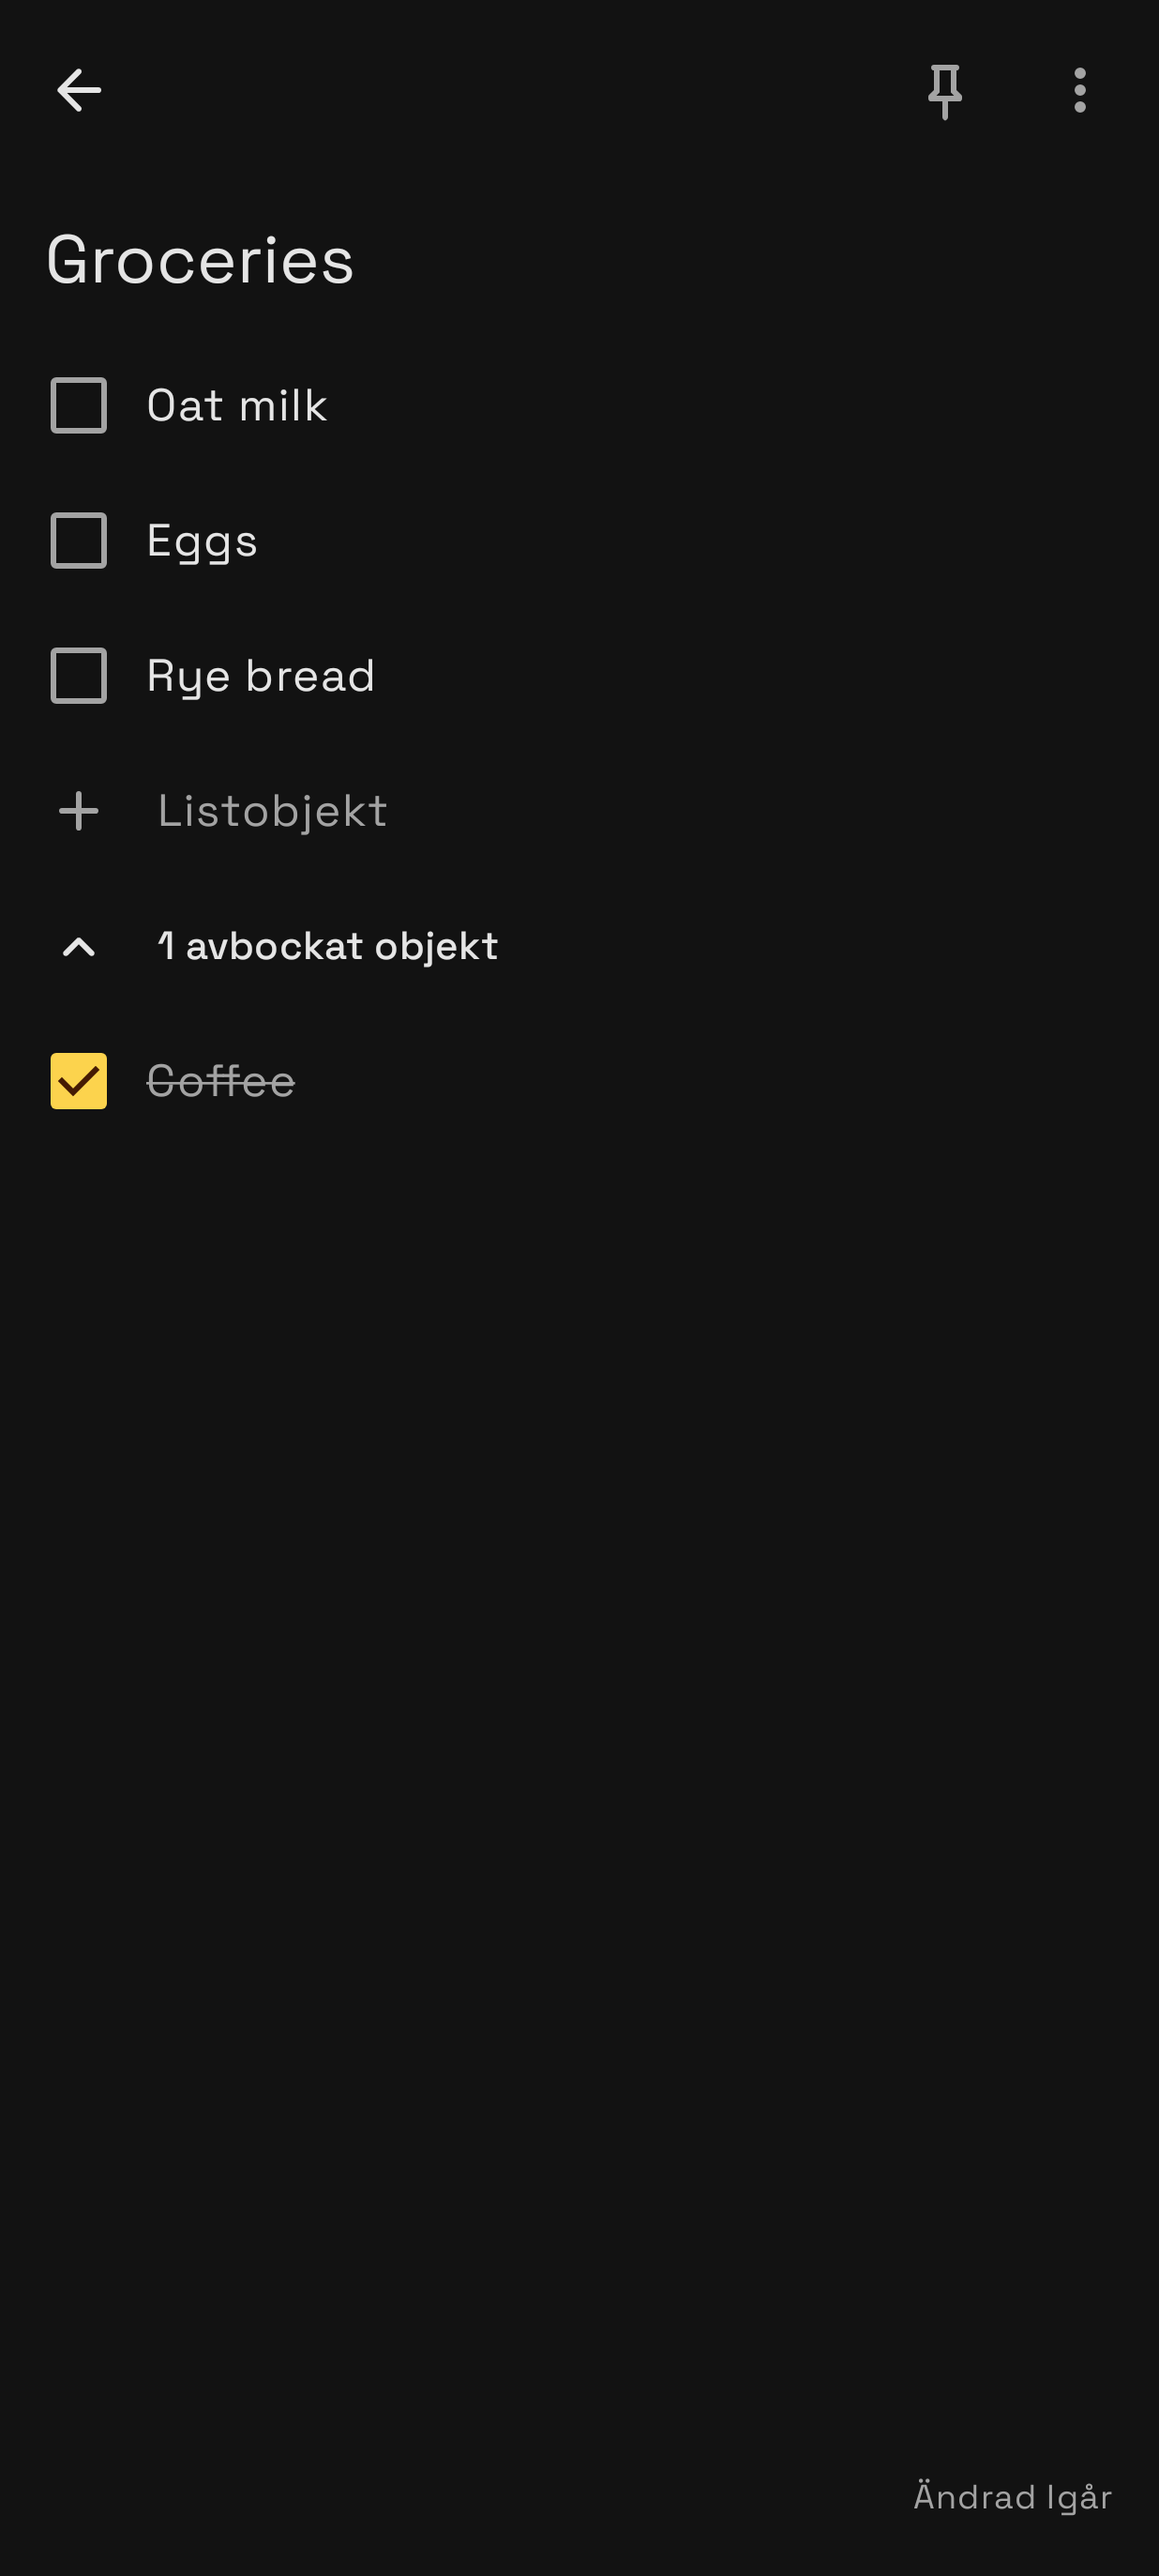
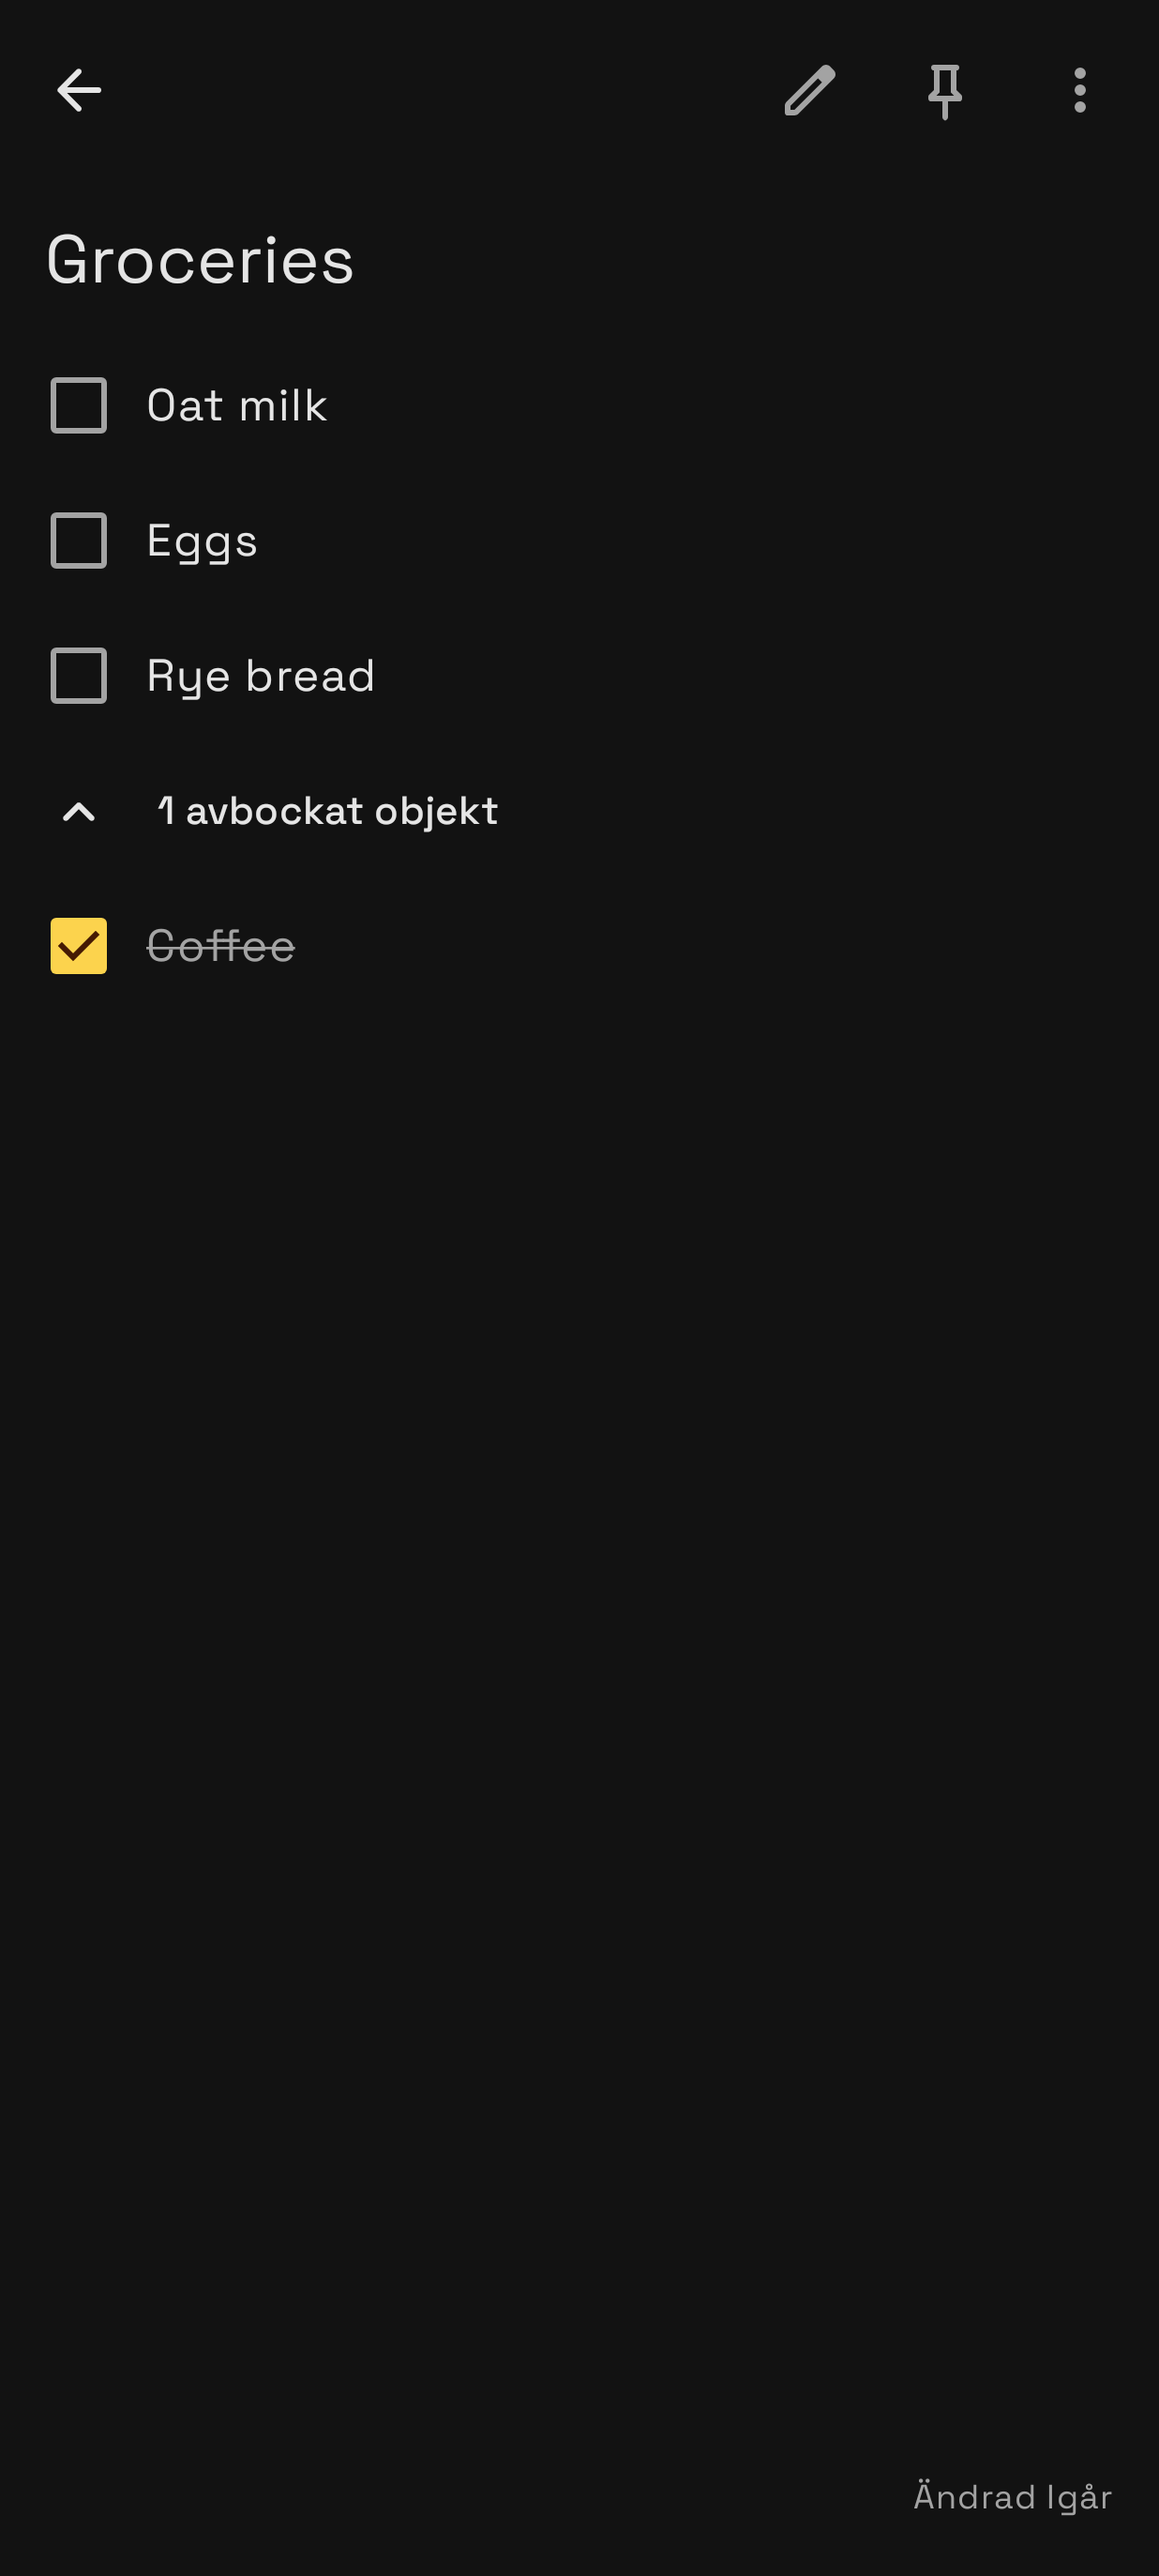
feat(notes): read notes before editing them, with one + for new ones
Notes open showing their formatting with the marks hidden, checklists still tickable, and Edit opens the editor. The list drops its bottom bar and checklist button; a note becomes a checklist from the formatting bar or the menu.

diff --git a/apps/notes/src/main/kotlin/dev/freeranger/range/notes/ui/note/NoteScreen.kt b/apps/notes/src/main/kotlin/dev/freeranger/range/notes/ui/note/NoteScreen.kt
@@ -1,6 +1,7 @@
 package dev.freeranger.range.notes.ui.note
 
 import android.content.Intent
+import androidx.activity.compose.BackHandler
 import androidx.compose.animation.core.animateFloatAsState
 import androidx.compose.foundation.clickable
 import androidx.compose.foundation.layout.Arrangement
@@ -20,8 +21,10 @@ import androidx.compose.foundation.layout.size
 import androidx.compose.foundation.lazy.LazyColumn
 import androidx.compose.foundation.lazy.items
 import androidx.compose.foundation.rememberScrollState
+import androidx.compose.foundation.selection.toggleable
 import androidx.compose.foundation.text.BasicTextField
 import androidx.compose.foundation.text.KeyboardOptions
+import androidx.compose.foundation.text.selection.SelectionContainer
 import androidx.compose.foundation.verticalScroll
 import androidx.compose.material3.Checkbox
 import androidx.compose.material3.DropdownMenu
@@ -53,6 +56,7 @@ import androidx.compose.ui.graphics.vector.ImageVector
 import androidx.compose.ui.platform.LocalContext
 import androidx.compose.ui.res.pluralStringResource
 import androidx.compose.ui.res.stringResource
+import androidx.compose.ui.semantics.Role
 import androidx.compose.ui.semantics.heading
 import androidx.compose.ui.semantics.semantics
 import androidx.compose.ui.text.AnnotatedString
@@ -124,8 +128,9 @@ data class NoteActions(
 )
 
 /**
- * A note open for writing: there's no separate view mode, as in Keep. Text notes have a
- * formatting bar over the keyboard; checklists keep ticked items below the rest.
+ * A note, shown with its formatting and ready to tick off, until Edit opens it for writing. New
+ * notes start out being written. While writing, text notes have a formatting bar over the keyboard.
+ * Checklists keep ticked items below the rest either way.
  */
 @OptIn(ExperimentalMaterial3Api::class)
 @Composable
@@ -135,11 +140,15 @@ fun NoteScreen(
     actions: NoteActions,
     modifier: Modifier = Modifier,
     isNew: Boolean = false,
+    initiallyEditing: Boolean = isNew,
     initiallyShowingMenu: Boolean = false,
 ) {
     val format = rememberNoteFormat()
     val styles = rememberMarkdownStyles()
+    var editing by rememberSaveable { mutableStateOf(initiallyEditing) }
     var menu by remember { mutableStateOf(initiallyShowingMenu) }
+    // Back while writing goes back to reading, unless the note was just started.
+    BackHandler(enabled = editing && !isNew) { editing = false }
     // The text with its cursor and selection, which formatting works on. Starts over when a checklist becomes text.
     var body by rememberSaveable(note.isChecklist, stateSaver = TextFieldValue.Saver) { mutableStateOf(TextFieldValue(note.body)) }
     val setBody = { value: TextFieldValue ->
@@ -156,6 +165,11 @@ fun NoteScreen(
                     IconButton(onClick = actions.back) { Icon(RangeIcons.ArrowBack, contentDescription = stringResource(R.string.action_back)) }
                 },
                 actions = {
+                    if (editing) {
+                        IconButton(onClick = { editing = false }) { Icon(RangeIcons.Check, contentDescription = stringResource(R.string.note_done)) }
+                    } else {
+                        IconButton(onClick = { editing = true }) { Icon(RangeIcons.Edit, contentDescription = stringResource(R.string.note_edit)) }
+                    }
                     IconButton(onClick = actions.togglePinned) {
                         Icon(
                             RangeIcons.Keep,
@@ -196,11 +210,12 @@ fun NoteScreen(
                     .padding(horizontal = RangeSpace.s1),
                 verticalAlignment = Alignment.CenterVertically,
             ) {
-                if (!note.isChecklist) {
+                if (editing && !note.isChecklist) {
                     FormatButton(RangeIcons.FormatH1, R.string.format_heading) { setBody(Markdown.togglePrefix(body, Markdown.HEADING)) }
                     FormatButton(RangeIcons.FormatBold, R.string.format_bold) { setBody(Markdown.toggleWrap(body, Markdown.BOLD)) }
                     FormatButton(RangeIcons.FormatItalic, R.string.format_italic) { setBody(Markdown.toggleWrap(body, Markdown.ITALIC)) }
                     FormatButton(RangeIcons.FormatListBulleted, R.string.format_bullets) { setBody(Markdown.togglePrefix(body, Markdown.BULLET)) }
+                    FormatButton(RangeIcons.Checklist, R.string.note_show_checkboxes, actions.toggleChecklist)
                 }
                 Spacer(Modifier.weight(1f))
                 if (!note.isBlank) {
@@ -215,7 +230,22 @@ fun NoteScreen(
         },
     ) { padding ->
         val items = note.items
-        if (items == null) {
+        if (items == null && !editing) {
+            SelectionContainer(
+                Modifier
+                    .padding(padding)
+                    .fillMaxSize()
+                    .verticalScroll(rememberScrollState())
+                    .padding(horizontal = RangeSpace.gutter),
+            ) {
+                Column {
+                    if (note.title.isNotBlank()) {
+                        Text(note.title.trim(), modifier = Modifier.padding(vertical = RangeSpace.s3), style = MaterialTheme.typography.headlineSmall)
+                    }
+                    Text(Markdown.preview(note.body.trimEnd(), styles), style = MaterialTheme.typography.bodyLarge)
+                }
+            }
+        } else if (items == null) {
             val focus = remember { FocusRequester() }
             Column(
                 Modifier
@@ -237,13 +267,13 @@ fun NoteScreen(
             }
             if (isNew) LaunchedEffect(Unit) { focus.requestFocus() }
         } else {
-            Checklist(note, items, actions, padding, focusFirst = isNew)
+            Checklist(note, items, editing, actions, padding, focusFirst = isNew)
         }
     }
 }
 
 @Composable
-private fun Checklist(note: Note, items: List<ChecklistItem>, actions: NoteActions, padding: PaddingValues, focusFirst: Boolean) {
+private fun Checklist(note: Note, items: List<ChecklistItem>, editing: Boolean, actions: NoteActions, padding: PaddingValues, focusFirst: Boolean) {
     val requesters = remember { mutableStateMapOf<Long, FocusRequester>() }
     // An item to put the cursor in once it's on screen: one just added, or the first of a new checklist.
     var focusing by remember { mutableStateOf(if (focusFirst) items.firstOrNull()?.id else null) }
@@ -261,11 +291,25 @@ private fun Checklist(note: Note, items: List<ChecklistItem>, actions: NoteActio
     }
 
     LazyColumn(Modifier.fillMaxSize(), contentPadding = padding) {
-        item(key = "title") { TitleField(note.title, actions.setTitle, Modifier.padding(horizontal = RangeSpace.gutter)) }
-        items(open, key = { it.id }) { item ->
-            ItemRow(item, requesters.getOrPut(item.id) { FocusRequester() }, actions, add, Modifier.animateItem())
+        item(key = "title") {
+            if (editing) {
+                TitleField(note.title, actions.setTitle, Modifier.padding(horizontal = RangeSpace.gutter))
+            } else if (note.title.isNotBlank()) {
+                Text(
+                    note.title.trim(),
+                    modifier = Modifier.padding(horizontal = RangeSpace.gutter, vertical = RangeSpace.s3),
+                    style = MaterialTheme.typography.headlineSmall,
+                )
+            }
         }
-        item(key = "add") {
+        items(open, key = { it.id }) { item ->
+            if (editing) {
+                ItemRow(item, requesters.getOrPut(item.id) { FocusRequester() }, actions, add, Modifier.animateItem())
+            } else {
+                ReadItemRow(item, actions, Modifier.animateItem())
+            }
+        }
+        if (editing) item(key = "add") {
             Row(
                 Modifier
                     .fillMaxWidth()
@@ -297,10 +341,36 @@ private fun Checklist(note: Note, items: List<ChecklistItem>, actions: NoteActio
             }
             if (showTicked) {
                 items(ticked, key = { it.id }) { item ->
-                    ItemRow(item, requesters.getOrPut(item.id) { FocusRequester() }, actions, add, Modifier.animateItem())
+                    if (editing) {
+                        ItemRow(item, requesters.getOrPut(item.id) { FocusRequester() }, actions, add, Modifier.animateItem())
+                    } else {
+                        ReadItemRow(item, actions, Modifier.animateItem())
+                    }
                 }
             }
         }
+    }
+}
+
+/** A checklist item to tick off while reading: the whole row ticks it. */
+@Composable
+private fun ReadItemRow(item: ChecklistItem, actions: NoteActions, modifier: Modifier = Modifier) {
+    val colors = MaterialTheme.colorScheme
+    Row(
+        modifier
+            .fillMaxWidth()
+            .toggleable(value = item.checked, role = Role.Checkbox) { actions.setChecked(item.id, it) }
+            .padding(horizontal = RangeSpace.s1),
+        verticalAlignment = Alignment.CenterVertically,
+    ) {
+        Checkbox(checked = item.checked, onCheckedChange = null, modifier = Modifier.size(48.dp))
+        Text(
+            item.text,
+            modifier = Modifier.padding(vertical = RangeSpace.s3).padding(end = RangeSpace.s4),
+            style = MaterialTheme.typography.bodyLarge,
+            color = if (item.checked) colors.onSurfaceVariant else colors.onSurface,
+            textDecoration = if (item.checked) TextDecoration.LineThrough else null,
+        )
     }
 }
 

diff --git a/apps/notes/src/main/kotlin/dev/freeranger/range/notes/ui/list/NoteListScreen.kt b/apps/notes/src/main/kotlin/dev/freeranger/range/notes/ui/list/NoteListScreen.kt
@@ -15,11 +15,9 @@ import androidx.compose.foundation.lazy.staggeredgrid.StaggeredGridCells
 import androidx.compose.foundation.lazy.staggeredgrid.StaggeredGridItemSpan
 import androidx.compose.foundation.lazy.staggeredgrid.items
 import androidx.compose.foundation.shape.CircleShape
-import androidx.compose.material3.BottomAppBar
 import androidx.compose.material3.Card
 import androidx.compose.material3.ExperimentalMaterial3Api
 import androidx.compose.material3.FloatingActionButton
-import androidx.compose.material3.FloatingActionButtonDefaults
 import androidx.compose.material3.Icon
 import androidx.compose.material3.IconButton
 import androidx.compose.material3.MaterialTheme
@@ -88,7 +86,7 @@ fun NoteListRoute(onOpen: (id: Long, isNew: Boolean) -> Unit, onOpenSettings: ()
         state = state,
         snackbar = snackbar,
         onOpen = { onOpen(it, false) },
-        onCreate = { checklist -> viewModel.create(checklist) { onOpen(it, true) } },
+        onCreate = { viewModel.create { onOpen(it, true) } },
         onOpenSettings = onOpenSettings,
     )
 }
@@ -99,7 +97,8 @@ fun NoteListRoute(onOpen: (id: Long, isNew: Boolean) -> Unit, onOpenSettings: ()
 fun NoteListScreen(
     state: NoteListState,
     onOpen: (Long) -> Unit,
-    onCreate: (checklist: Boolean) -> Unit,
+    /** Starts a text note; it turns into a checklist from inside. */
+    onCreate: () -> Unit,
     onOpenSettings: () -> Unit,
     modifier: Modifier = Modifier,
     snackbar: SnackbarHostState = remember { SnackbarHostState() },
@@ -120,24 +119,15 @@ fun NoteListScreen(
                 },
             )
         },
-        bottomBar = {
-            BottomAppBar(
-                actions = {
-                    IconButton(onClick = { onCreate(true) }) {
-                        Icon(RangeIcons.Checklist, contentDescription = stringResource(R.string.checklist_new))
-                    }
-                },
-                floatingActionButton = {
-                    FloatingActionButton(
-                        onClick = { onCreate(false) },
-                        containerColor = MaterialTheme.colorScheme.primary,
-                        contentColor = MaterialTheme.colorScheme.onPrimary,
-                        elevation = FloatingActionButtonDefaults.bottomAppBarFabElevation(),
-                    ) {
-                        Icon(RangeIcons.Add, contentDescription = stringResource(R.string.note_new))
-                    }
-                },
-            )
+        floatingActionButton = {
+            // The theme's main accent (wallpaper-based with Material You), not Material's paler default.
+            FloatingActionButton(
+                onClick = onCreate,
+                containerColor = MaterialTheme.colorScheme.primary,
+                contentColor = MaterialTheme.colorScheme.onPrimary,
+            ) {
+                Icon(RangeIcons.Add, contentDescription = stringResource(R.string.note_new))
+            }
         },
         snackbarHost = { SnackbarHost(snackbar) },
     ) { padding ->
@@ -159,7 +149,8 @@ fun NoteListScreen(
                 start = RangeSpace.gutter,
                 end = RangeSpace.gutter,
                 top = padding.calculateTopPadding(),
-                bottom = padding.calculateBottomPadding() + RangeSpace.s4,
+                // Leaves room for the + button over the end of the grid.
+                bottom = padding.calculateBottomPadding() + 96.dp,
             ),
             horizontalArrangement = Arrangement.spacedBy(RangeSpace.s2),
             verticalItemSpacing = RangeSpace.s2,

diff --git a/apps/notes/src/test/kotlin/dev/freeranger/range/notes/ScreenshotTest.kt b/apps/notes/src/test/kotlin/dev/freeranger/range/notes/ScreenshotTest.kt
@@ -123,13 +123,19 @@ class ScreenshotTest {
     fun noteLight() = capture(RangeAppearance(theme = ThemeMode.Light, dynamicColor = false)) { NoteScreen(ideas, friday, NoteActions()) }
 
     @Test
-    fun noteNew() = capture { NoteScreen(note(9, edited = at(friday, 10)), friday, NoteActions()) }
+    fun noteEditing() = capture { NoteScreen(ideas, friday, NoteActions(), initiallyEditing = true) }
+
+    @Test
+    fun noteNew() = capture { NoteScreen(note(9, edited = at(friday, 10)), friday, NoteActions(), initiallyEditing = true) }
 
     @Test
     fun noteMenu() = capture { NoteScreen(ideas, friday, NoteActions(), initiallyShowingMenu = true) }
 
     @Test
     fun checklist() = capture { NoteScreen(trip, friday, NoteActions()) }
+
+    @Test
+    fun checklistEditing() = capture { NoteScreen(trip, friday, NoteActions(), initiallyEditing = true) }
 
     @Test
     fun checklistMenu() = capture { NoteScreen(trip, friday, NoteActions(), initiallyShowingMenu = true) }

diff --git a/apps/notes/src/main/kotlin/dev/freeranger/range/notes/ui/list/NoteListViewModel.kt b/apps/notes/src/main/kotlin/dev/freeranger/range/notes/ui/list/NoteListViewModel.kt
@@ -31,9 +31,9 @@ class NoteListViewModel(private val repository: NoteRepository) : ViewModel() {
     /** Each deleted note, for the Undo snackbar. */
     val deleted: Flow<Note> = deletions.receiveAsFlow()
 
-    /** Starts a note, or a checklist, and hands its id to [open]. */
-    fun create(checklist: Boolean, open: (Long) -> Unit) {
-        viewModelScope.launch { open(repository.create(checklist)) }
+    /** Starts a note and hands its id to [open]. */
+    fun create(open: (Long) -> Unit) {
+        viewModelScope.launch { open(repository.create(checklist = false)) }
     }
 
     fun delete(id: Long) {
